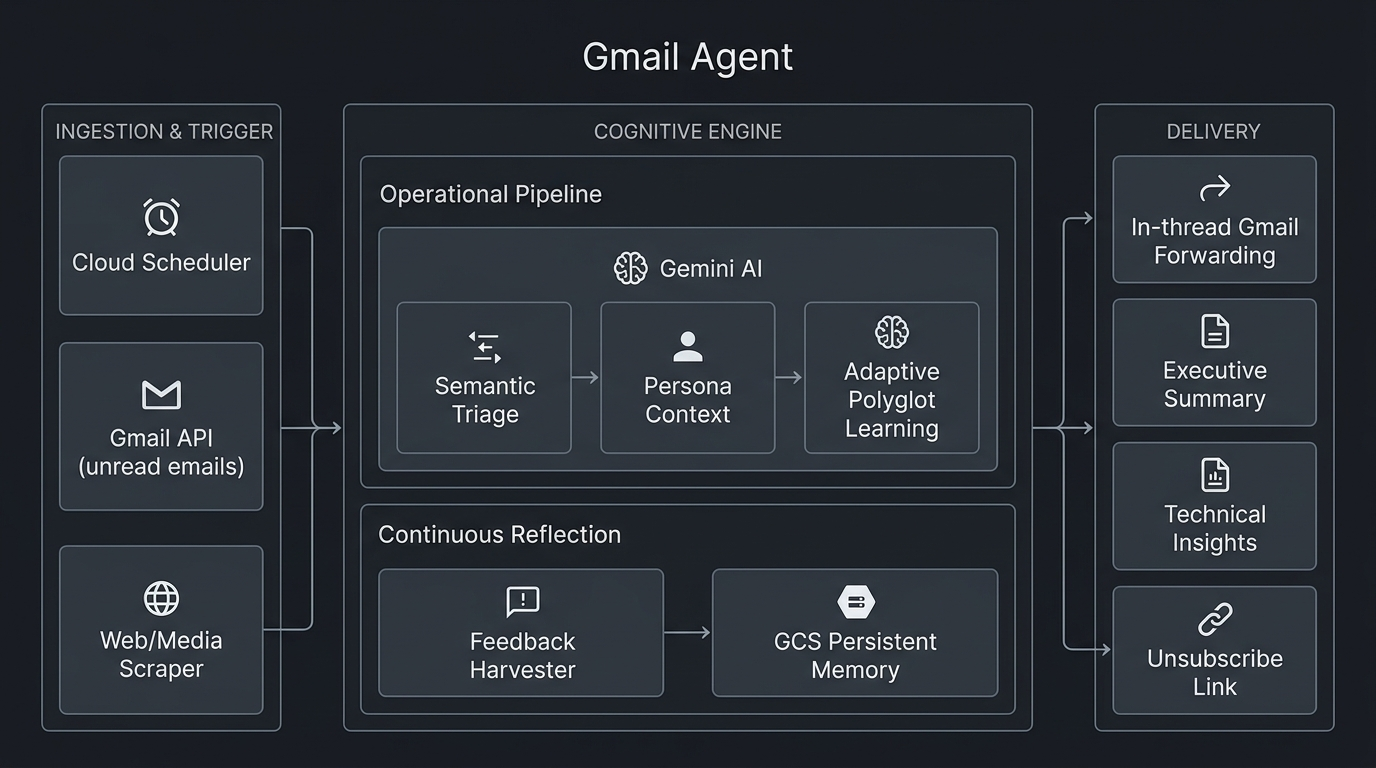
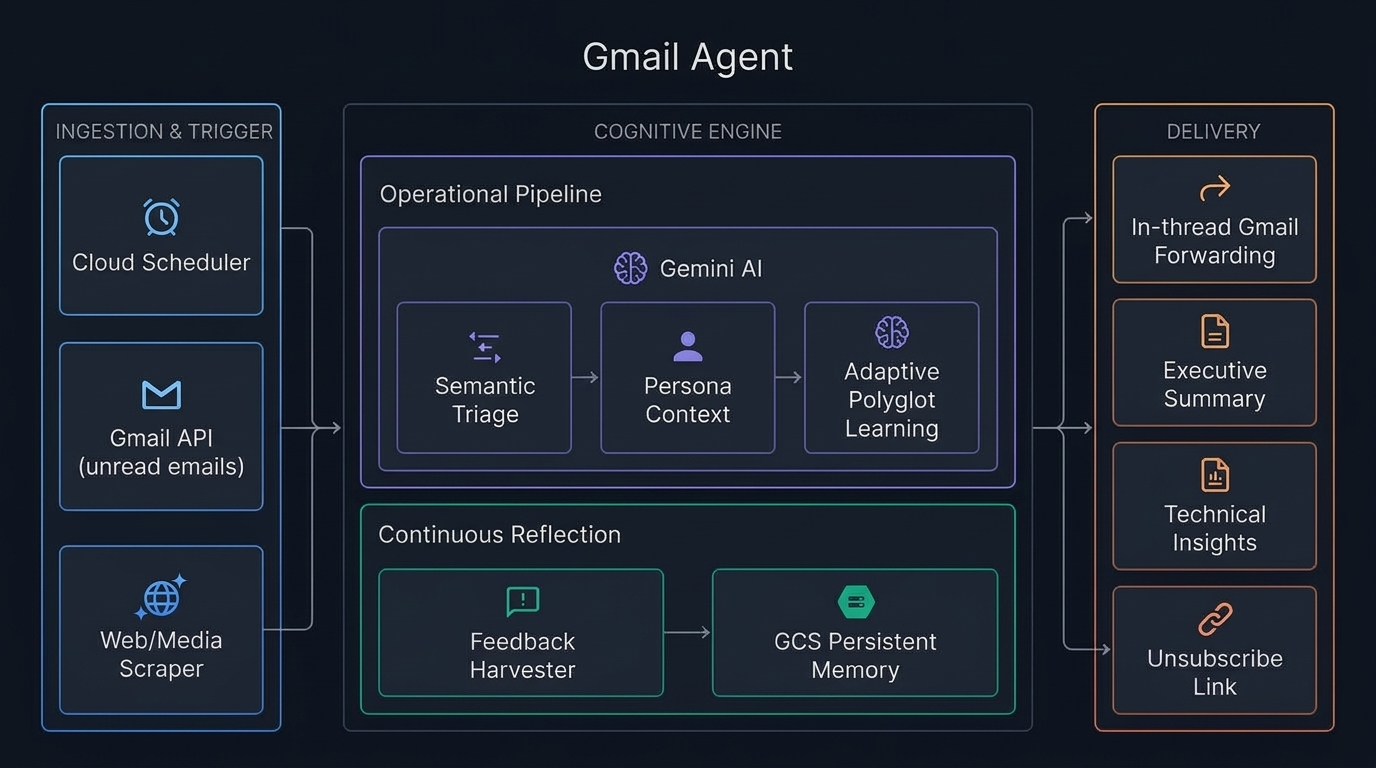
docs(architecture): standardize mermaid diagram syntax and refresh overview asset
- Standardize Mermaid flowchart subgraph identifiers and quoted node labels in README.md for robust cross-platform rendering
- Refresh docs/assets/architecture_overview.png with the updated architecture visual

diff --git a/README.md b/README.md
@@ -23,42 +23,42 @@ The system is designed as a fully cloud-native, self-improving multi-PC applicat
 ![Gmail Agent Architecture & Workflow Overview](docs/assets/architecture_overview.png)
 
 ```mermaid
-graph TD
-    subgraph Multi-PC Resolution & Context Layer
-        GCPAuth[gcloud auth login / ADC] --> SecretMgr[Secret Manager]
-        SecretMgr -->|gemini-api-key| Config[src/config.py]
-        SecretMgr -->|gmail-agent-token| Auth[src/auth.py]
-        SecretMgr -->|gmail-oauth-credentials| Auth
-        GCSMemory[Optional Cloud Storage / Profile Memory] -->|Persona Sync| Persona[src/persona.py]
+flowchart TD
+    subgraph MultiPC ["Multi-PC Resolution & Context Layer"]
+        GCPAuth["gcloud auth login / ADC"] --> SecretMgr["Secret Manager"]
+        SecretMgr -->|"gemini-api-key"| Config["src/config.py"]
+        SecretMgr -->|"gmail-agent-token"| Auth["src/auth.py"]
+        SecretMgr -->|"gmail-oauth-credentials"| Auth
+        GCSMemory["Optional Cloud Storage / Profile Memory"] -->|"Persona Sync"| Persona["src/persona.py"]
     end
 
-    subgraph Google Cloud Platform
-        Scheduler[Cloud Scheduler] -->|Trigger via Configured Cron| CloudRun[Cloud Run Service]
-        CloudRun -->|Runs| App[Flask App]
-        App -->|Executes| Main[Main Pipeline]
-        Main -->|Operational Logs| GCSLogs[Cloud Storage gs://...-gmail-agent-data/run_log.json]
-        Main -->|Structured Logs| CloudLogging[GCP Cloud Logging]
-        Main <-->|Read / Update Memory| GCSMem[Cloud Storage gs://...-gmail-agent-data/agent_memory.json]
+    subgraph GCP ["Google Cloud Platform"]
+        Scheduler["Cloud Scheduler"] -->|"Trigger via Configured Cron"| CloudRun["Cloud Run Service"]
+        CloudRun -->|"Runs"| App["Flask App"]
+        App -->|"Executes"| Main["Main Pipeline"]
+        Main -->|"Operational Logs"| GCSLogs["Cloud Storage (run_log.json)"]
+        Main -->|"Structured Logs"| CloudLogging["GCP Cloud Logging"]
+        Main -->|"Read / Update Memory"| GCSMem["Cloud Storage (agent_memory.json)"]
     end
 
-    subgraph Operational Pipeline (Per-Batch)
-        Main -->|Auth & Ingest Unread| GmailClient[Gmail Client]
-        Main -->|Analyze & Triage| Summarizer[AI Summarizer]
-        Persona -->|Context & Focus Areas| Summarizer
-        GCSMem -->|Learned Hints & Guidelines| Summarizer
-        GmailClient -.->|Email Content & RFC 2369| Summarizer
-        Summarizer -->|Cognitive Triage & Briefing| GeminiAPI[Gemini 3.8 Flash]
-        GmailClient -->|Deliver In-Thread Forward| GmailAPI[Gmail API]
-        GmailClient -->|Apply Smart Labels| GmailAPI
+    subgraph OperationalPipeline ["Operational Pipeline (Per-Batch)"]
+        Main -->|"Auth & Ingest Unread"| GmailClient["Gmail Client"]
+        Main -->|"Analyze & Triage"| Summarizer["AI Summarizer"]
+        Persona -->|"Context & Focus Areas"| Summarizer
+        GCSMem -->|"Learned Hints & Guidelines"| Summarizer
+        GmailClient -.->|"Email Content & RFC 2369"| Summarizer
+        Summarizer -->|"Cognitive Triage & Briefing"| GeminiAPI["Gemini 3.8 Flash"]
+        GmailClient -->|"Deliver In-Thread Forward"| GmailAPI["Gmail API"]
+        GmailClient -->|"Apply Smart Labels"| GmailAPI
     end
 
-    subgraph Continuous Reflection & Memory Loop
-        GmailAPI -->|Harvest Stars & Label Changes| FeedbackEngine[Feedback Harvester]
-        FeedbackEngine -->|Interaction History| MetaReflect[Gemini Meta-Reflection]
-        MetaReflect -->|Synthesize Optimized Guidelines| GCSMem
+    subgraph ReflectionLoop ["Continuous Reflection & Memory Loop"]
+        GmailAPI -->|"Harvest Stars & Label Changes"| FeedbackEngine["Feedback Harvester"]
+        FeedbackEngine -->|"Interaction History"| MetaReflect["Gemini Meta-Reflection"]
+        MetaReflect -->|"Synthesize Optimized Guidelines"| GCSMem
     end
 
-    GmailAPI -->|Delivers Forwarded Briefing| User((User))
+    GmailAPI -->|"Delivers Forwarded Briefing"| User(("User Inbox"))
 ```
 
 ### Multi-PC Cloud Architecture Strategy
